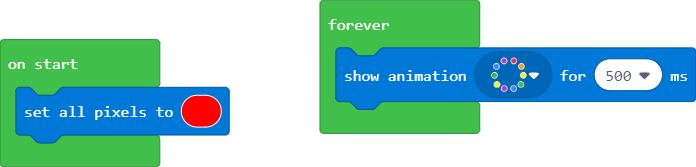
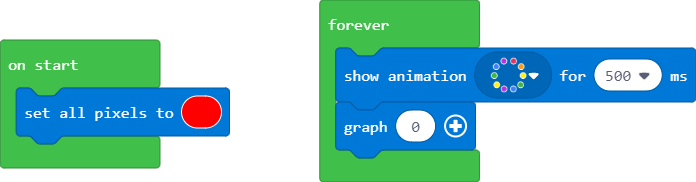
Update main.blocks, main.ts

diff --git a/main.ts b/main.ts
@@ -1,4 +1,5 @@
 light.setAll(0xff0000)
 forever(function () {
     light.showAnimation(light.rainbowAnimation, 500)
+    light.graph(0)
 })
